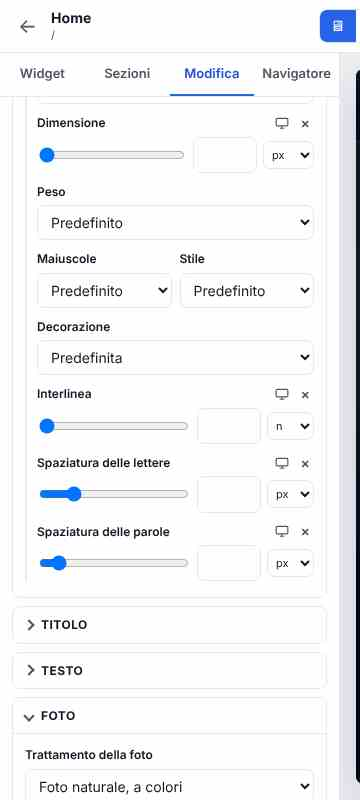
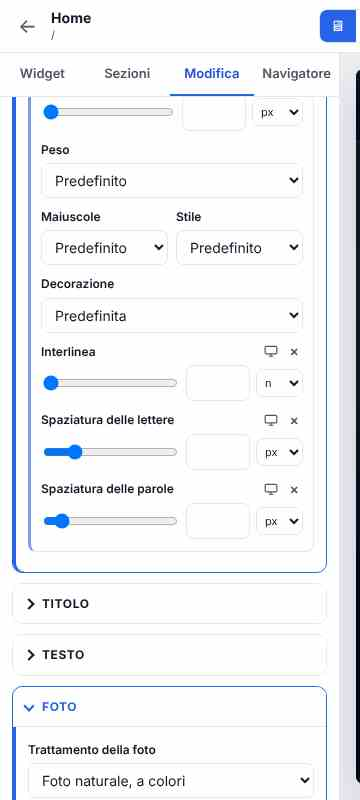
1.9.2: sezioni e gruppi dell'editor più riconoscibili
Claude-Session: https://claude.ai/code/session_01Ddnix1ocLSpj3D8QhkAFuA

diff --git a/cms/admin/assets/editor/editor.css b/cms/admin/assets/editor/editor.css
@@ -178,21 +178,31 @@ button,input,select,textarea{font:inherit;color:inherit}
 .ed-temi-azioni{display:flex;gap:6px;flex-wrap:wrap}
 
 /* controlli di gruppo (tipografia, sfondo, bordo, ombra, dimensioni, misura), sezioni a tendina, stati, globali, icone */
-.ed-sez{border:1px solid var(--ed-bordo);border-radius:8px;margin:0 0 8px;background:var(--ed-pannello)}
-.ed-sez>summary{list-style:none;cursor:pointer;padding:9px 12px;font-size:12px;font-weight:700;letter-spacing:.04em;text-transform:uppercase;color:var(--ed-testo);display:flex;align-items:center;gap:8px}
+/* 1.9.2 (segnalazione di Danilo: "sezioni e sottosezioni poco individuabili"): la sezione a tendina ha un'intestazione
+   piena, e da aperta il bordo e la striscia a sinistra del colore d'accento dell'aspetto; il gruppo dentro (Tipografia,
+   Ombra, Sfondo, Bordo...) è un riquadro con il fondo dei campi, il suo nome in testa e una striscia più sottile. */
+.ed-sez{border:1px solid var(--ed-bordo);border-radius:10px;margin:0 0 10px;background:var(--ed-pannello);overflow:hidden}
+.ed-sez>summary{list-style:none;cursor:pointer;padding:11px 12px;font-size:12px;font-weight:700;letter-spacing:.05em;text-transform:uppercase;color:var(--ed-testo);display:flex;align-items:center;gap:9px;background:var(--ed-campo)}
+.ed-sez>summary:hover{color:var(--ed-primo)}
 .ed-sez>summary::-webkit-details-marker{display:none}
-.ed-sez>summary::before{content:"";width:6px;height:6px;border-right:2px solid var(--ed-muto);border-bottom:2px solid var(--ed-muto);transform:rotate(-45deg);transition:transform .15s}
+.ed-sez>summary::before{content:"";flex:none;width:6px;height:6px;border-right:2px solid currentColor;border-bottom:2px solid currentColor;transform:rotate(-45deg);transition:transform .15s}
+.ed-sez[open]{border-color:var(--ed-primo);box-shadow:inset 3px 0 0 var(--ed-primo)}
+.ed-sez[open]>summary{border-bottom:1px solid var(--ed-bordo);color:var(--ed-primo)}
 .ed-sez[open]>summary::before{transform:rotate(45deg)}
-.ed-sez[open]>summary{border-bottom:1px solid var(--ed-bordo)}
-.ed-sez-corpo{padding:12px 12px 2px}
+.ed-sez:focus-within>summary:focus-visible{outline:2px solid var(--ed-primo);outline-offset:-2px}
+.ed-sez-corpo{padding:14px 12px 4px 15px}
 .ed-intestazione h5{margin:6px 0 2px;font-size:12px;font-weight:700;color:var(--ed-testo)}
 .ed-etichetta-stati{justify-content:space-between}
 .ed-stati{display:inline-flex;border:1px solid var(--ed-bordo);border-radius:6px;overflow:hidden;margin-left:auto}
 .ed-stati button{border:0;background:var(--ed-campo);padding:3px 8px;font-size:11px;cursor:pointer;color:var(--ed-muto)}
 .ed-stati button.attivo{background:var(--ed-primo);color:var(--ed-su-primo)}
 .ed-controllo-stato{margin-bottom:0}
-.ed-gruppo{border-left:2px solid var(--border);padding-left:10px;margin-top:4px}
+.ed-gruppo{border:1px solid var(--ed-bordo);border-left:3px solid color-mix(in srgb,var(--ed-primo) 55%,var(--ed-bordo));border-radius:8px;background:var(--ed-campo);padding:10px 10px 2px;margin-top:6px}
 .ed-gruppo .ed-controllo{margin-bottom:10px}
+.ed-gruppo .ed-gruppo{background:var(--ed-pannello)}
+/* il nome del gruppo (Tipografia, Ombra del testo...): sopra il riquadro, come un titoletto */
+.ed-controllo:has(>.ed-gruppo){margin:18px 0 16px}
+.ed-controllo:has(>.ed-gruppo)>.ed-etichetta,.ed-controllo:has(>.ed-gruppo)>label{font-size:11px;font-weight:700;letter-spacing:.06em;text-transform:uppercase;color:var(--ed-primo);margin-bottom:0}
 .ed-due{display:grid;grid-template-columns:1fr 1fr;gap:8px}
 .ed-azzera{border:0;background:none;cursor:pointer;color:var(--ed-muto);font-size:14px;line-height:1;padding:0 4px}
 .ed-azzera:hover{color:var(--ed-rosso)}

diff --git a/CLAUDE.md b/CLAUDE.md
@@ -90,7 +90,7 @@ Sono gli unici in `cms/docs/`, nello zip, nel sito di plumeCMS e nella pagina Do
 - **Pacchetto di aggiornamento** per un'installazione esistente:
   `python3 tools/cms-pacchetto.py --aggiornamento`. Si carica dal pannello,
   Impostazioni, Aggiornamenti.
-- **Versione**: `cms/VERSIONE` (oggi 1.9.1) e una voce in `cms/CHANGELOG.md` a ogni
+- **Versione**: `cms/VERSIONE` (oggi 1.9.2) e una voce in `cms/CHANGELOG.md` a ogni
   zip con contenuto diverso. Mai cambiare il contenuto di una versione già data.
 - **Prove** prima di dire finito:
   - `php -n -d short_open_tag=1 -l` su ogni file PHP toccato, `node --check` sui js;
@@ -126,7 +126,12 @@ Le decisioni complete, con data e perché, stanno nel second brain, `plumecms/de
 
 ## Stato al 28 ottobre 2026
 
-Fatto: plumeCMS 1.9.1 (30 ottobre): la voce Form del menu del pannello spostata dentro "Newsletter e form" (richiesta di Danilo),
+Fatto: plumeCMS 1.9.2 (30 ottobre): sezioni e gruppi del pannello dell'editor più riconoscibili (segnalazione di Danilo):
+`details.ed-sez` con intestazione piena e, aperta, bordo e striscia d'accento; `.ed-gruppo` a riquadro con il nome in maiuscoletto
+(`.ed-controllo:has(>.ed-gruppo)`), solo `admin/assets/editor/editor.css`. Schermate del manuale rifatte (PDF 1884 KB, al limite: la
+prossima volta alleggerire). Prove: install 37/37, aggiornamento 1.9.1 -> 1.9.2 13/13, file del pannello 6/6, pannello guardato in Aria e
+Lavagna. Analisi dei widget (agente, 80 widget, 15 proposte) consegnata a Danilo il 30 ottobre: nessuna scelta ancora.
+1.9.1 (30 ottobre): la voce Form del menu del pannello spostata dentro "Newsletter e form" (richiesta di Danilo),
 fra Iscritti e liste e Invii dei form, solo amministratore (`admin/includes/admin-header.php`). Manuale d'uso capitolo 18 e schermata
 01-dashboard. Prove: install 37/37, aggiornamento 1.9.0 -> 1.9.1 13/13, menu controllato nel browser. Pagine del sito di plumeCMS
 invariate: niente parti nuove.

diff --git a/docs-sviluppo/manuale-tecnico.md b/docs-sviluppo/manuale-tecnico.md
@@ -1,6 +1,6 @@
 # plumeCMS: manuale tecnico
 
-Versione del manuale: 1.18, per plumeCMS 1.9.1 (30 ottobre 2026).
+Versione del manuale: 1.19, per plumeCMS 1.9.2 (30 ottobre 2026).
 
 Questo manuale descrive come è fatto plumeCMS e come funziona, pezzo per pezzo. È scritto leggendo il codice:
 ogni numero, limite e nome di funzione viene dai file veri, con il riferimento `file:riga` quando serve a chi
@@ -73,7 +73,7 @@ fatti con plumeCMS, i loro contenuti e i temi e moduli che non ne copiano il cod
 index.php           front controller: tutte le richieste del sito passano da qui
 cron-daily.php      compiti del giorno (pacchetti programmati, moduli, IndexNow)
 cron-newsletter.php invio della newsletter a giri, coda IndexNow
-VERSIONE            il numero di versione (oggi 1.9.1)
+VERSIONE            il numero di versione (oggi 1.9.2)
 CHANGELOG.md, README.md, INSTALLA.md
 .htaccess           regole di Apache (copia di install/esempi/htaccess-radice.txt)
 
@@ -892,6 +892,12 @@ misura, cursore, allineamento, scelta di icone, icona, galleria, data e ora, tra
 
 Unità ammesse: `px`, `%`, `em`, `rem`, `vw`, `vh`. Un valore può essere diverso per misura (computer, tablet,
 telefono) e per stato (`normale`, `hover`).
+
+**Come si vedono nel pannello (dalla 1.9.2).** Le sezioni a tendina sono `details.ed-sez` (intestazione con il fondo
+`--ed-campo`; aperta: bordo e striscia a sinistra `--ed-primo`, il colore d'accento dell'aspetto). Un controllo di gruppo è
+un `div.ed-gruppo` dentro il suo `.ed-controllo`: riquadro con fondo `--ed-campo` e striscia sinistra a metà fra accento e
+bordo; il nome del gruppo (l'etichetta del controllo che lo contiene) esce in maiuscoletto nel colore d'accento, con la
+regola `.ed-controllo:has(>.ed-gruppo)` di `admin/assets/editor/editor.css`. Solo variabili dell'aspetto: vale per tutti e quattro.
 
 ### 9.6 Le schede Contenuto, Stile, Avanzate
 

diff --git a/cms/CHANGELOG.md b/cms/CHANGELOG.md
@@ -2,6 +2,14 @@
 
 Il prodotto si chiama **plumeCMS** (nome scelto il 26 ottobre 2026; prima, per poche ore, "CarbonaraCMS", e ancora prima il provvisorio "Officina": gli zip vecchi si chiamavano `officina-*` e `carbonaracms-*`).
 
+## 1.9.2 (30 ottobre 2026) - Sezioni dell'editor più riconoscibili
+
+- **Segnalazione di Danilo**: nel pannello di sinistra dell'editor le sezioni (Titolo, Occhiello, Testo sotto il titolo...)
+  e i gruppi dentro di loro (Tipografia, Ombra, Sfondo, Bordo) si distinguevano poco. Ora l'intestazione di ogni sezione ha
+  un fondo suo; la sezione aperta ha il bordo e una striscia a sinistra del colore d'accento del pannello, e il nome in
+  quel colore. Ogni gruppo è un riquadro con il suo nome in testa, in maiuscoletto. Vale per tutti e quattro gli aspetti.
+  Cambia solo il foglio di stile dell'editor (`admin/assets/editor/editor.css`): il sito e i dati non cambiano.
+
 ## 1.9.1 (30 ottobre 2026) - Form dentro Newsletter e form
 
 - **Richiesta di Danilo**: nel menu del pannello la voce **Form** non sta più da sola: è in **Newsletter e form**, fra

diff --git a/cms/docs/manuale-uso.md b/cms/docs/manuale-uso.md
@@ -1,6 +1,6 @@
 # Manuale d'uso di plumeCMS
 
-Versione del manuale: plumeCMS 1.9.1, 30 ottobre 2026.
+Versione del manuale: plumeCMS 1.9.2, 30 ottobre 2026.
 
 ## Prima di cominciare
 
